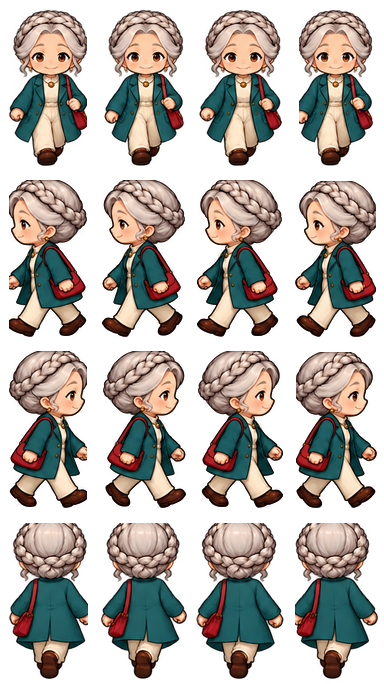
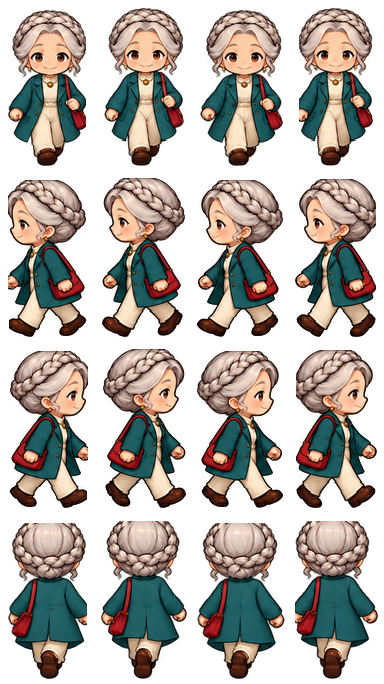
fix assets for npcs, add breath aniamtion when npcs stay still

diff --git a/apps/game/src/features/npcs/npc-actors.ts b/apps/game/src/features/npcs/npc-actors.ts
@@ -17,6 +17,8 @@ export interface NpcActor {
   artFrame?: string;
   clip?: (anchor: Point, offset: Point) => Point;
   patrol?: NpcPatrol;
+  baseScaleY?: number;
+  idleElapsed?: number;
 }
 
 export function updateNpcActors(actors: NpcActor[], player: Point, delta: number, paused: boolean, conversationNpcId: string | null = null): void {
@@ -41,10 +43,20 @@ export function updateNpcActors(actors: NpcActor[], player: Point, delta: number
     actor.sprite.setPosition(pose.x, pose.y).setDepth(pose.y);
     actor.shadow?.setPosition(pose.x, pose.y - 3);
     actor.label.setPosition(pose.x, pose.y - actor.labelOffset);
-    if (actor.walkPrefix && pose.moving) actor.sprite.play(`${actor.walkPrefix}-${{ down: 0, left: 1, right: 2, up: 3 }[pose.direction]}`, true);
-    else {
+    if (!paused) actor.idleElapsed = ((actor.idleElapsed ?? 0) + delta) % 100000;
+    if (actor.walkPrefix && pose.moving) {
+      if (actor.baseScaleY !== undefined && typeof actor.sprite.setScale === 'function') {
+        actor.sprite.setScale(actor.sprite.scaleX, actor.baseScaleY);
+      }
+      actor.sprite.play(`${actor.walkPrefix}-${{ down: 0, left: 1, right: 2, up: 3 }[pose.direction]}`, true);
+    } else {
       actor.sprite.anims.stop();
       actor.sprite.setFrame(actor.idleFrames?.[pose.direction] ?? actor.idleFrame);
+      if (typeof actor.sprite.setScale === 'function') {
+        if (actor.baseScaleY === undefined) actor.baseScaleY = actor.sprite.scaleY ?? 1;
+        const breath = 1 + 0.018 * Math.sin((actor.idleElapsed ?? 0) * 0.003);
+        actor.sprite.setScale(actor.sprite.scaleX, actor.baseScaleY * breath);
+      }
     }
   }
 }

diff --git a/docs/plans/2026-10-21-game-menu-settings-tutorial.md b/docs/plans/2026-10-21-game-menu-settings-tutorial.md
@@ -1,0 +1,161 @@
+# Game Menu, Synchronized Settings, and Tutorial Implementation Plan
+
+> **For agentic workers:** Use the host's available task-by-task implementation workflow. Steps use checkbox (`- [ ]`) syntax for tracking.
+
+**Goal:** Deliver a non-pausing game menu, account-synchronized learning settings, and a five-page illustrated first-run tutorial without interrupting the simulated world.
+
+**Architecture:** Keep Sound in the existing device preference store and add a server-owned preference record for Coach, speech rate, and speech pitch under the players domain. Replace the current menu composition with small feature-owned overlay components; overlays capture player input but do not pause NPC movement or game time. Keep tutorial completion device-local and keep local practice free of authenticated preference API calls.
+
+**Tech Stack:** TypeScript, React 19, Tailwind CSS, Phaser 4, NestJS, Zod shared contracts, PostgreSQL/Supabase migrations, Node test runner.
+
+## Global Constraints
+
+- The game menu, Settings, English Review, and Movement Tutorial must not pause game time, NPC schedules, or NPC movement.
+- Overlay controls may capture keyboard/pointer input so menu actions do not also move the player.
+- Sound defaults on, remains device-local, and does not attempt to read system volume.
+- Coach, speech rate (`0.75–1.5`), and speech pitch (`0.75–1.25`) synchronize through authenticated NestJS endpoints; the client never accesses PostgreSQL directly.
+- Local practice uses device-local preferences and makes no preferences API calls.
+- `movementTutorialSeen` remains device-local. First run opens automatically; Skip and Start Exploring mark it seen. Reopening from the menu starts at page one.
+- Preserve current dialogue, loading, offline, and sleep-transition pause behavior.
+- Implement and verify only one numbered task per request. Do not start the next task automatically and do not commit unless the user requests it.
+
+---
+
+### Task 1: Persist synchronized learning preferences
+
+**Files:**
+- Create: `apps/server/migrations/031_player_preferences.sql`
+- Create: `packages/shared/src/player-preferences.ts`
+- Modify: `packages/shared/src/index.ts`
+- Modify: `apps/server/src/modules/players/players.controller.ts`
+- Modify: `apps/server/src/modules/players/players.service.ts`
+- Modify: `apps/server/src/modules/players/players.repository.ts`
+- Create: `apps/server/src/tests/player-preferences.test.ts`
+- Modify: `apps/server/src/tests/database.integration.test.ts`
+
+**Interfaces:**
+- Produces `PlayerPreferences`, `PlayerPreferencesUpdate`, `playerPreferencesSchema`, and `playerPreferencesUpdateSchema`.
+- Produces authenticated `GET /players/preferences` and `POST /players/preferences` operations.
+- The GET response distinguishes a missing preference row from stored defaults so legacy client settings can initialize an account exactly once.
+
+- [ ] Add failing contract tests for valid defaults, partial updates, unknown keys, non-booleans, non-finite values, and both numeric bounds.
+- [ ] Add migration `031_player_preferences.sql`: one row per `profiles.id`, cascade delete, checked numeric ranges, `updated_at`, RLS enabled, and no direct authenticated/anon policy.
+- [ ] Add repository read, atomic create-if-absent, and partial update methods. Create-if-absent must return the existing row when two devices race.
+- [ ] Add service/controller methods guarded by the existing `AuthGuard` and validated by `SchemaValidationPipe`.
+- [ ] Test ownership, missing-row initialization, concurrent initialization, partial updates, bounds rejection, cascade deletion, and direct-role denial.
+- [ ] Run `pnpm --filter @life-abroad/shared build`, `pnpm --filter server typecheck`, and the focused server test. Run `pnpm test:integration` only when local Supabase is available; report it as not run otherwise.
+- [ ] Stop and report Task 1. Do not begin Task 2.
+
+### Task 2: Add client preference synchronization
+
+**Files:**
+- Modify: `apps/game/src/api/client.ts`
+- Modify: `apps/game/src/features/hud/preferences.ts`
+- Modify: `apps/game/src/features/hud/usePreferences.ts`
+- Create: `apps/game/src/features/hud/synced-preferences.ts`
+- Modify: `apps/game/src/session/session-provider.tsx`
+- Create: `apps/game/tests/synced-preferences.test.mjs`
+- Modify: `apps/game/tests/hud-preferences.test.mjs`
+
+**Interfaces:**
+- Consumes the Task 1 preference schemas and endpoints.
+- Produces a preference state with `status: 'local' | 'loading' | 'saved' | 'saving' | 'error'`, `retry()`, and the existing typed `set()` behavior.
+
+- [ ] Add failing tests for Sound-only local persistence, authenticated loading, legacy initialization, server-wins merge, local practice isolation, immediate Coach save, debounced slider save, latest-value-wins, failed save status, and Retry.
+- [ ] Split device Sound persistence from account learning preferences without changing existing callers' value names.
+- [ ] Add parsed API functions for read and partial update. Keep `cache: 'no-store'` and authenticated NestJS routing.
+- [ ] Load synchronized preferences after authenticated session restoration. Do not block map startup on a slow preferences request.
+- [ ] Update slider values immediately, debounce network writes, cancel stale writes, and prevent an older response from overwriting a newer local value.
+- [ ] On failure, retain the usable in-memory value, expose a visible unsynchronized state, and retry the latest desired value only when requested.
+- [ ] Run the focused preference tests and `pnpm --filter game typecheck`.
+- [ ] Stop and report Task 2. Do not begin Task 3.
+
+### Task 3: Build the non-pausing game menu shell
+
+**Files:**
+- Create: `apps/game/src/features/game-menu/GameMenu.tsx`
+- Create: `apps/game/src/features/game-menu/game-menu-state.ts`
+- Modify: `apps/game/src/gameplay/StationScreen.tsx`
+- Create: `apps/game/tests/game-menu.test.mjs`
+
+**Interfaces:**
+- Produces menu actions for English Review, Movement Tutorial, Sign Out/Leave Local Practice, Return to Game, Settings, and the existing update action when available.
+- Produces an explicit overlay/input state that passes `paused=true` to capture player input and `worldPaused=false` to keep simulation running, using the existing `GameCanvas` contract.
+
+- [ ] Add failing tests proving the five required actions and practice labels, close/focus restoration, Escape behavior, and non-pausing state derivation.
+- [ ] Extract the menu from `StationScreen` into a focused component styled from the cream, muted-green, and brown-gold UI references.
+- [ ] Remove the `Paused` title and stop treating the menu as a pause reason. Keep NPC/world simulation running while preventing menu keystrokes from moving the player.
+- [ ] Preserve existing true pause reasons: dialogue, loading, sleep transition, offline state, and server-state blockers.
+- [ ] Keep update availability reachable without removing any of the five requested actions.
+- [ ] Run the focused test and `pnpm --filter game typecheck`.
+- [ ] Stop and report Task 3. Do not begin Task 4.
+
+### Task 4: Move Settings into its own overlay
+
+**Files:**
+- Create: `apps/game/src/features/game-menu/SettingsPanel.tsx`
+- Modify: `apps/game/src/features/hud/Settings.tsx`
+- Modify: `apps/game/src/gameplay/StationScreen.tsx`
+- Modify: `apps/game/tests/hud-browser.tsx`
+- Create: `apps/game/tests/settings-panel.test.mjs`
+
+**Interfaces:**
+- Consumes Task 2 preference state and Task 3 menu navigation callbacks.
+- Produces `SettingsPanel({ onBack, practice })` with Sound, Coach, Voice Speed, Voice Pitch, save status, and Retry.
+
+- [ ] Add failing tests for menu-to-Settings navigation, Back returning to the menu, device Sound, synchronized control status, Retry, and practice-mode local behavior.
+- [ ] Keep compact dialogue settings working; separate reusable controls from the full Settings overlay without duplicating preference logic.
+- [ ] Build a scroll-safe Settings panel with labelled controls, focus restoration, 44px targets, and clear Saving/Not synchronized feedback.
+- [ ] Confirm opening Settings does not change world pause state and that slider key input does not move the player.
+- [ ] Render-check Settings at 320px, 375px, and desktop width; verify no horizontal overflow and record evidence paths.
+- [ ] Run the focused test and `pnpm --filter game typecheck`.
+- [ ] Stop and report Task 4. Do not begin Task 5.
+
+### Task 5: Implement the five-page tutorial behavior
+
+**Files:**
+- Create: `apps/game/src/features/tutorial/tutorial-pages.ts`
+- Create: `apps/game/src/features/tutorial/tutorial-state.ts`
+- Move/replace: `apps/game/src/gameplay/TutorialDialogue.tsx` → `apps/game/src/features/tutorial/MovementTutorial.tsx`
+- Modify: `apps/game/src/gameplay/StationScreen.tsx`
+- Modify: `apps/game/src/types/ui/gameplay.ts`
+- Create: `apps/game/tests/movement-tutorial.test.mjs`
+
+**Interfaces:**
+- Produces five typed pages: Move Around, Talk and Interact, Follow Your Goals, Practice English, Use the Game Menu.
+- Produces `MovementTutorial({ playerName, sound, source, onClose })`, where `source` is `first-run` or `menu` and close returns to the correct surface.
+
+- [ ] Add failing tests for page order/content, `1 / 5` through `5 / 5`, disabled/absent Back on page one, Next, final Start Exploring, Skip, ArrowLeft/ArrowRight, Escape, and form-control key exclusion.
+- [ ] Implement small page-state functions independently of React rendering.
+- [ ] Keep `movementTutorialSeen`; write `"1"` only on Skip or Start Exploring. Menu reopening always starts at page one.
+- [ ] Return a menu-launched tutorial to the game menu; return first-run completion directly to the game.
+- [ ] Keep NPC movement and game time active while capturing tutorial navigation input.
+- [ ] Run the focused tutorial test and `pnpm --filter game typecheck`.
+- [ ] Stop and report Task 5. Do not begin Task 6.
+
+### Task 6: Add illustrations and complete visual/behavior verification
+
+**Files:**
+- Create or reuse: `apps/game/public/images/tutorial/*` only for assets actually needed by the five pages.
+- Modify: `apps/game/src/features/tutorial/MovementTutorial.tsx`
+- Modify: `apps/game/src/features/game-menu/GameMenu.tsx`
+- Modify: `docs/GAME.md`
+- Modify: `docs/TECH.md`
+- Modify: `docs/TASKS.md`
+
+**Interfaces:**
+- Consumes the Task 3–5 components and existing runtime/UI assets.
+- Produces the finished responsive menu, Settings, and illustrated tutorial flow.
+
+- [ ] Reuse existing sprites/UI motifs where licensing and readability permit; do not add map-wide `?` markers or repurpose quest `!` markers.
+- [ ] Give each tutorial page one compact illustration and at most two short explanatory sentences. Include desktop and touch guidance where relevant.
+- [ ] Render-check the menu, Settings, pages 1 and 5, and a middle page at 320px, 375px, and desktop width. Inspect focus, overflow, text, contrast, background visibility, and 44px targets.
+- [ ] Behavior-check first-run open, Skip, completion, menu reopen at page one, Back/Next/arrow/Escape navigation, Settings save/retry, and menu return paths.
+- [ ] Prove NPC movement and game time continue under all four overlays. Confirm dialogue/loading/sleep/offline behavior is unchanged.
+- [ ] Run `pnpm typecheck`, `pnpm lint`, `pnpm test`, and `pnpm build`; run `pnpm check:pwa` if tutorial assets or service-worker precache behavior changed.
+- [ ] Update maintained docs once with the durable menu, preference persistence, and tutorial behavior. Mark T38 complete only when every slice and required check passes.
+- [ ] Stop and report Task 6. Do not start another project task.
+
+## Unresolved Product Decisions
+
+None. The approved design fixes menu actions, continuous-world behavior, five tutorial pages, device-local Sound, synchronized learning preferences, and first-run persistence.

diff --git a/GEMINI.md b/GEMINI.md
@@ -1,0 +1,104 @@
+# Life Abroad visual design contract
+
+You are the visual design assistant for Life Abroad, a warm, web-first
+English-learning RPG. Your job is to create coherent visual assets and give
+specific design feedback. You are not a coding agent for this repository.
+
+Automatically read and follow the repository AGENTS.md files.
+
+The approved UI design is included here:
+@[Game menu and tutorial design](docs/specs/2026-10-21-game-menu-tutorial-design.md)
+
+## Established visual direction
+
+Use the existing artwork under `apps/game/assets/ui/`,
+`apps/game/assets/npcs/`, and `apps/game/assets/runtime/` as the source of
+truth. New work must look as though it belongs to the same game, not to a
+separate design system.
+
+- Mood: welcoming, calm, friendly, storybook-like, and suitable for learners.
+- Shapes: rounded silhouettes, soft corners, clear hierarchy, and generous
+  breathing room.
+- Materials: warm paper, painted wood, muted fabric, subtle grain, restrained
+  highlights, and shallow dimensional borders.
+- Core palette: warm cream `#fff8e9`, forest green `#315749`, ink green
+  `#263630`, muted sage, brown-gold `#aa8b57`, and sparing amber `#ffe08a`.
+- Contrast: text and important symbols must remain readable on small mobile
+  screens. Decoration must never compete with instructions.
+- Detail: polished illustrated detail is welcome, but silhouettes and controls
+  must remain clear when displayed small.
+
+Avoid neon colors, glassmorphism, sci-fi styling, photorealism, glossy mobile
+app gradients, sharp corporate cards, excessive bloom, dense decoration, and
+unrelated icon styles.
+
+## UI asset rules
+
+- Match the cream panels, brown-gold edging, green actions, leaf motifs, and
+  softly painted texture in `apps/game/assets/ui/ui_dialogue_source.png` and
+  `apps/game/assets/ui/ui_id_card_source.png`.
+- Create modular pieces, illustrations, or transparent decorations rather than
+  baking a complete responsive screen into one image.
+- Do not bake labels, instructions, button text, page numbers, or keyboard text
+  into raster assets; React must render localized and accessible text.
+- Keep tutorial illustrations simple enough to understand at approximately
+  220–320 CSS pixels wide.
+- Use transparent PNG for standalone UI illustrations and decorations unless a
+  background is explicitly requested.
+
+## NPC sprite rules
+
+- Preserve each NPC's face, hairstyle, skin tone, clothing, accessories,
+  proportions, and identity across every frame and portrait.
+- Walking sheets are exactly `384×684`: four columns by four rows, with each
+  frame exactly `96×171`.
+- Direction rows remain, in order: down, left, right, up. Do not reorder frames.
+- Keep both feet on a consistent baseline within each direction. Leave enough
+  transparent padding so hair, hands, clothes, and accessories are not clipped
+  by frame boundaries.
+- Use a genuinely transparent background. Remove red, white, dark, or colored
+  fringe pixels around the silhouette and inspect edges on both white and dark
+  backgrounds.
+- Do not resize the canvas, shift the frame grid, change animation timing, or
+  modify portraits unless the user explicitly requests it.
+
+## Allowed work
+
+- Inspect visual references and image metadata anywhere in the repository.
+- Propose UI layouts, visual directions, and design feedback.
+- Create new draft images under `apps/game/assets/ui/tutorial-drafts/`.
+- Edit an existing raster asset only when the user explicitly names that asset
+  or NPC. Do not broaden a request to visually similar assets.
+- Review screenshots and report visual problems.
+- Use image tools to inspect dimensions, transparency, frame alignment, and
+  visible edge artifacts.
+
+## Forbidden work
+
+- Do not modify source code.
+- Do not modify tests, documentation, configuration, migrations, dependencies,
+  lockfiles, or generated code.
+- Do not run Git commands, stage files, create commits, or change branches.
+- Do not rename or delete existing assets.
+- Do not regenerate map packs, upload assets, or publish anything.
+- Do not modify an existing image unless the user's current request explicitly
+  authorizes that exact image or named NPC.
+
+## Required workflow and evidence
+
+Before creating or changing an image, state its purpose, exact path, dimensions,
+format, transparency, reference assets, and intended visual changes. If any of
+those details are uncertain, stop and ask one concise question.
+
+Before claiming completion:
+
+1. Verify the saved dimensions and transparency.
+2. For sprite sheets, verify the `4×4` grid, `96×171` frames, direction order,
+   consistent baseline, and absence of clipping.
+3. Inspect transparent assets against both light and dark backgrounds.
+4. List every created or modified file and describe the visible change.
+5. State which checks were performed and which were not. Never claim an asset
+   works in the game unless it was actually rendered there.
+
+Stop after delivering the requested visual assets or consultation. Do not start
+another asset, code integration, map-pack generation, or Git operation.

diff --git a/docs/TASKS.md b/docs/TASKS.md
@@ -46,6 +46,33 @@ Finished tasks are removed to keep this board short. Git history and
 
 ## NOW
 
+- [ ] **T38 — Non-pausing game menu, synchronized Settings and movement tutorial.**
+      Implement only one slice per request and stop after its checks. The menu
+      and all utility overlays must leave NPC movement and game time running;
+      they may capture player input. The approved design is
+      `docs/specs/2026-10-21-game-menu-tutorial-design.md`, and the executable
+      plan is `docs/plans/2026-10-21-game-menu-settings-tutorial.md`.
+  - [ ] **T38.1 — Server preference contract and persistence.** Add validated,
+        authenticated storage for Coach, Voice Speed and Voice Pitch, including
+        atomic first-device initialization, bounds, ownership and RLS tests.
+  - [ ] **T38.2 — Client preference synchronization.** Keep Sound device-local;
+        load/save account preferences through NestJS with slider debounce,
+        latest-value-wins, visible failure state and Retry. Local practice must
+        make no preference API calls.
+  - [ ] **T38.3 — Non-pausing game menu shell.** Extract the menu with English
+        Review, Movement Tutorial, Sign Out/Leave Local Practice, Return to Game
+        and Settings. Capture player input without pausing NPCs or game time.
+  - [ ] **T38.4 — Separate Settings overlay.** Move full controls out of the
+        game menu, preserve compact dialogue controls, add save/error feedback,
+        and verify the layout at 320px, 375px and desktop width.
+  - [ ] **T38.5 — Five-page tutorial behavior.** Implement page state, first-run
+        `localStorage`, menu replay from page one, correct return destination,
+        Back/Next/Skip/Start Exploring, arrow keys and Escape without pausing
+        the simulated world.
+  - [ ] **T38.6 — Tutorial art and final verification.** Add compact game-style
+        illustrations, run responsive and behavioral checks, prove continuous
+        NPC/time behavior, run repository gates and update maintained docs.
+
 - [ ] **NPC speech audio prototype (Azure TTS + client DSP).** Complete the
       following slices in order. Keep the test scope to a few shared lines,
       NPC-specific lines, and AI fallback replies for one NPC. Do not mark the
